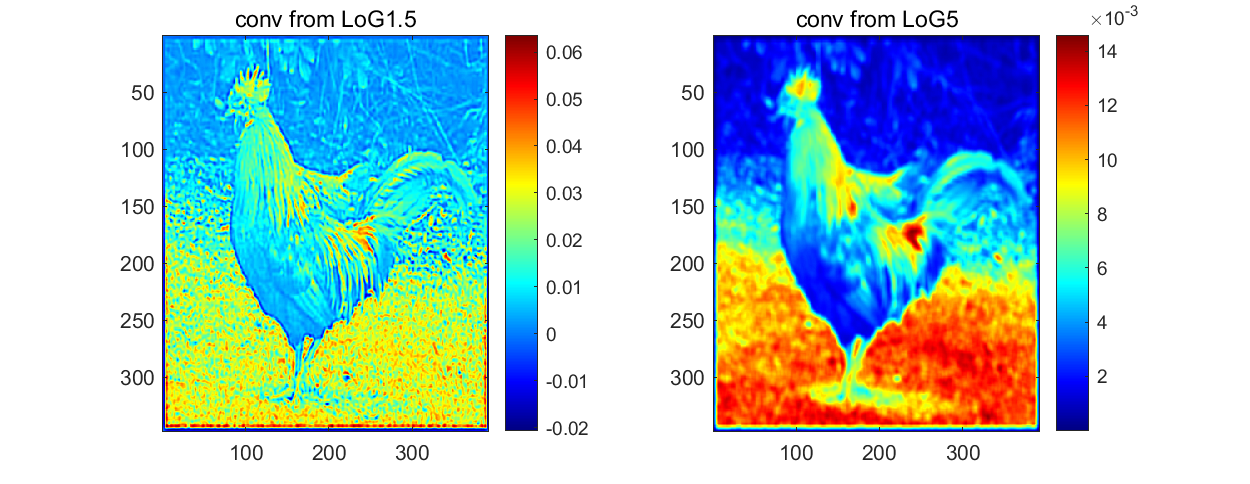
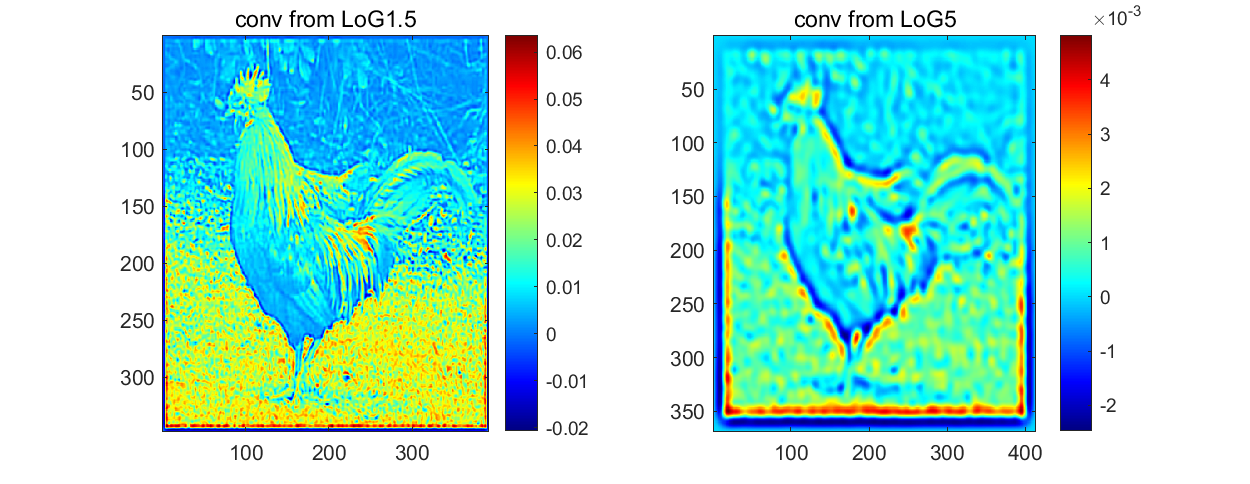
yunxuebaby

Changed region(s): [[0.5304, 0.031, 0.9048, 0.9607], [0.8736, 0.0, 0.936, 0.062]]

diff --git a/lab1/gabor2.m b/lab1/gabor2.m
@@ -1,0 +1,26 @@
+function gb=gabor(sigma,wavel,orient,aspect,phase)
+%function gb=gabor(sigma,wavel,orient,aspect,phase)
+%
+% This function produces a numerical approximation to 2D Gabor function.
+% Parameters:
+% sigma  = standard deviation of Gaussian envelope, this in-turn controls the
+%          size of the result (pixels)
+% wavel  = the wavelength of the sin wave (pixels)
+% orient = orientation of the Gabor from the vertical (degrees)
+% aspect = aspect ratio of Gaussian envelope (0 = no modulation over "width" of
+%          sin wave, 1 = circular symmetric envelope)
+% phase  = the phase of the sin wave (degrees)
+
+sz=fix(7*sigma./max(0.2,aspect));
+if mod(sz,2)==0, sz=sz+1;end
+ 
+[x y]=meshgrid(-fix(sz/2):fix(sz/2),fix(-sz/2):fix(sz/2));
+ 
+% Rotation 
+orient=orient*pi/180;
+x_theta=x*cos(orient)+y*sin(orient);
+y_theta=-x*sin(orient)+y*cos(orient);
+
+phase=phase*pi/180;
+
+gb=exp(-.5*((x_theta.^2/sigma^2)+(aspect^2*y_theta.^2/sigma^2))).*(cos(2*pi*(1./wavel)*x_theta+phase));

diff --git a/lab1/q521.m b/lab1/q521.m
@@ -1,7 +1,7 @@
 clear;read_pic;
 l1 = -1/8.*[1 1 1;1 -8 1;1 1 1];
-Gmask1 = fspecial('gaussian',7,1.5);
-Gmask2 = fspecial('gaussian',7,5);
+Gmask1 = fspecial('gaussian',9,1.5);
+Gmask2 = fspecial('gaussian',30,5);
 LoGmask1 = conv2(Gmask1,l1,'valid');
 LoGmask2 = conv2(Gmask2,l1,'valid');
 x = conv2(boxes,LoGmask1);
@@ -16,5 +16,7 @@ subplot(224),imagesc(y);title('conv from LoG5');
 colormap('jet'),colorbar;
 print -dpng q521.png
 
-max(x(:)) % 0.1061
-max(y(:)) % 0.0150
+max(x(:)) % 0.1029
+max(y(:)) % 0.0067
+min(x(:)) % -0.0624
+min(y(:)) % -0.0047

diff --git a/lab1/q512.m b/lab1/q512.m
@@ -1,5 +1,5 @@
 clear;read_pic;
-Gmask = fspecial('gaussian',7,1.5);
+Gmask = fspecial('gaussian',9,1.5);
 drvtmask = [-1 1];
 Gdrvtmask1 = conv2(Gmask,drvtmask);
 Gdrvtmask2 = conv2(Gmask,drvtmask');
@@ -17,5 +17,7 @@ subplot(224),imagesc(y);
 title('conv with Gaussian derivative mask(y)');colormap('jet'),colorbar
 print -dpng q512.png 
 
-max(x(:)) % 0.2707
-max(y(:)) % 0.2707
+max(x(:)) % 0.2666
+max(y(:)) % 0.2666
+min(x(:)) % -0.2666
+min(y(:)) % -0.2666

diff --git a/lab1/q511.m b/lab1/q511.m
@@ -1,5 +1,5 @@
 clear;read_pic;
-Gmask = fspecial('gaussian',7,5);
+Gmask = fspecial('gaussian',30,5);
 drvtmask = [-1 1];
 Gdrvtmask1 = conv2(Gmask,drvtmask);
 Gdrvtmask2 = conv2(Gmask,drvtmask');
@@ -17,5 +17,7 @@ subplot(224),imagesc(y);
 title('conv with Gaussian derivative mask(y)');colormap('jet'),colorbar
 print -dpng q511.png 
 
-max(x(:)) % 0.1544
-max(y(:)) % 0.1544
+max(x(:)) % 0.0796
+max(y(:)) % 0.0796
+min(x(:)) % -0.0796
+min(y(:)) % -0.0796

diff --git a/lab1/q321.m b/lab1/q321.m
@@ -1,6 +1,6 @@
 clear;read_pic;
-gaussian1_5 = fspecial('gaussian',[25 25],1.5);
-gaussian10 = fspecial('gaussian',[25 25],10);
+gaussian1_5 = fspecial('gaussian',9,1.5);
+gaussian10 = fspecial('gaussian',60,10);
 
 figure(2);set(gcf,'position',[50,50,800,620]);
 subplot(221),imagesc(conv2(rooster,gaussian1_5,'same'));

diff --git a/lab1/q522.m b/lab1/q522.m
@@ -1,7 +1,7 @@
 clear;read_pic;
 l1 = -1/8.*[1 1 1;1 -8 1;1 1 1];
 Gmask1 = fspecial('gaussian',9,1.5);
-Gmask2 = fspecial('gaussian',9,5);
+Gmask2 = fspecial('gaussian',30,5);
 LoGmask1 = conv2(Gmask1,l1,'valid');
 LoGmask2 = conv2(Gmask2,l1,'valid');
 x = conv2(rooster,LoGmask1);

diff --git a/lab1/q513.m b/lab1/q513.m
@@ -1,5 +1,5 @@
 clear;read_pic;
-Gmask = fspecial('gaussian',7,1.5);
+Gmask = fspecial('gaussian',9,1.5);
 drvtmask = [-1 1];
 Gdrvtmask1 = conv2(Gmask,drvtmask,'same');
 Gdrvtmask2 = conv2(Gmask,drvtmask','same');
